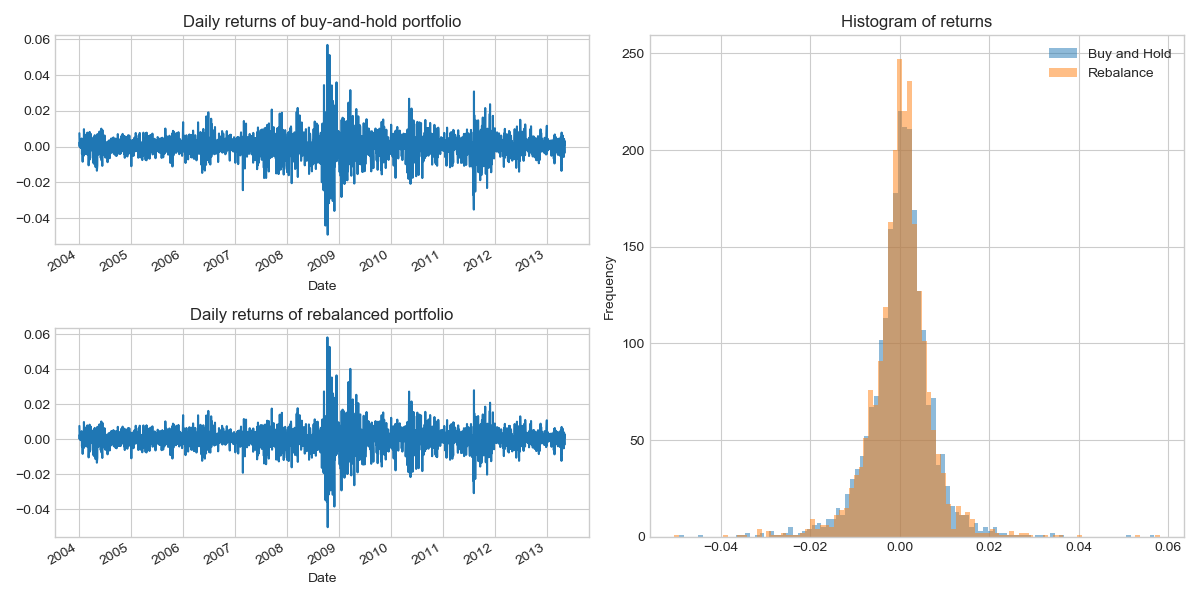
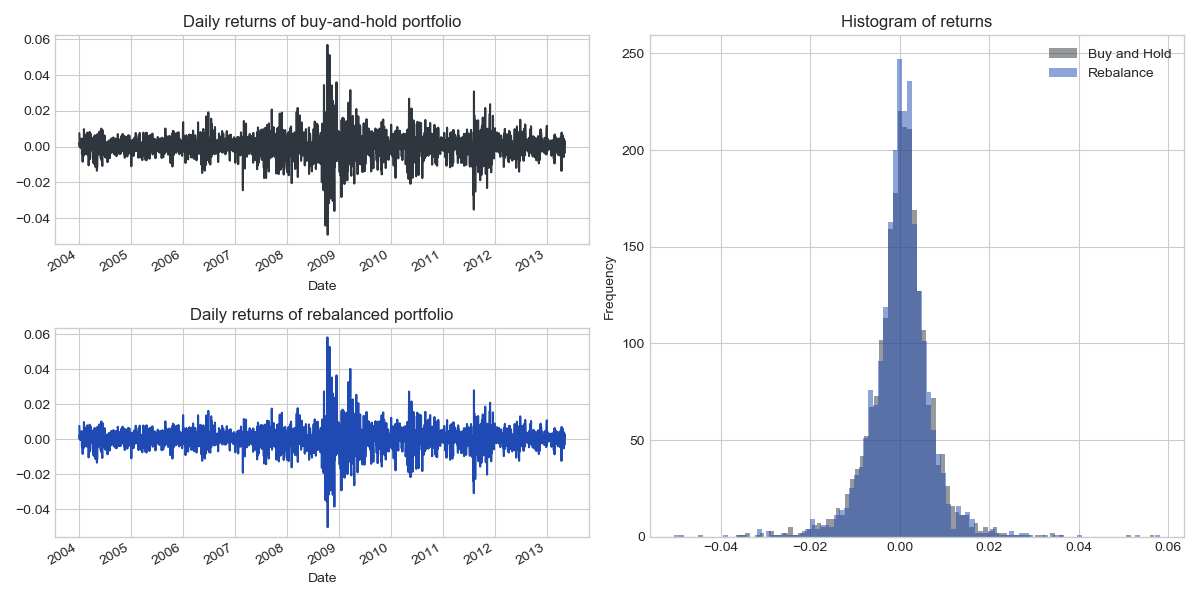
Updated colors in charts

diff --git a/BCS.py b/BCS.py
@@ -10,6 +10,8 @@ STARTING_CASH = 100000
 MAX_DRIFT = 0.05
 MINKOWSKI_P = 5
 PATH = os.path.realpath(os.path.join(os.getcwd(), os.path.dirname(__file__)))
+BETTERMENT_BLUE = '#1F4AB4'
+BETTERMENT_GRAY = '#30363D'
 betterment_palette = [
     '#79CCFF',  # SHY
     '#ADE7FF',  # TIP
@@ -140,10 +142,12 @@ if __name__ == '__main__':
         ax=buy_and_hold_ax,
         figsize=(12, 6),
         title='Daily returns of buy-and-hold portfolio',
+        color=BETTERMENT_GRAY
     )
     rebalance_df['returns'].plot(
         ax=rebalance_ax,
         title='Daily returns of rebalanced portfolio',
+        color=BETTERMENT_BLUE
     )
     buy_and_hold_df['returns'].plot(
         ax=hist_ax,
@@ -151,14 +155,16 @@ if __name__ == '__main__':
         bins=100,
         alpha=0.5,
         title='Histogram of returns',
-        label='Buy and Hold'
+        label='Buy and Hold',
+        color=BETTERMENT_GRAY
     )
     rebalance_df['returns'].plot(
         ax=hist_ax,
         kind='hist',
         bins=100,
         alpha=0.5,
-        label='Rebalance'
+        label='Rebalance',
+        color=BETTERMENT_BLUE
     )
     plt.legend()
     plt.tight_layout()
@@ -198,10 +204,12 @@ if __name__ == '__main__':
         figsize=(12, 6),
         title='Portfolio values',
         label='Value of buy-and-hold portfolio',
+        color=BETTERMENT_GRAY
     )
     rebalance_df['values'].sum(axis=1).plot(
         ax=axes_values,
-        label='Value of rebalanced portfolio'
+        label='Value of rebalanced portfolio',
+        color=BETTERMENT_BLUE
     )
     axes_values.set_xlim(dates[0], dates[-1])
     plt.legend(loc=9, bbox_to_anchor=(0.5, -0.1), ncol=2)
